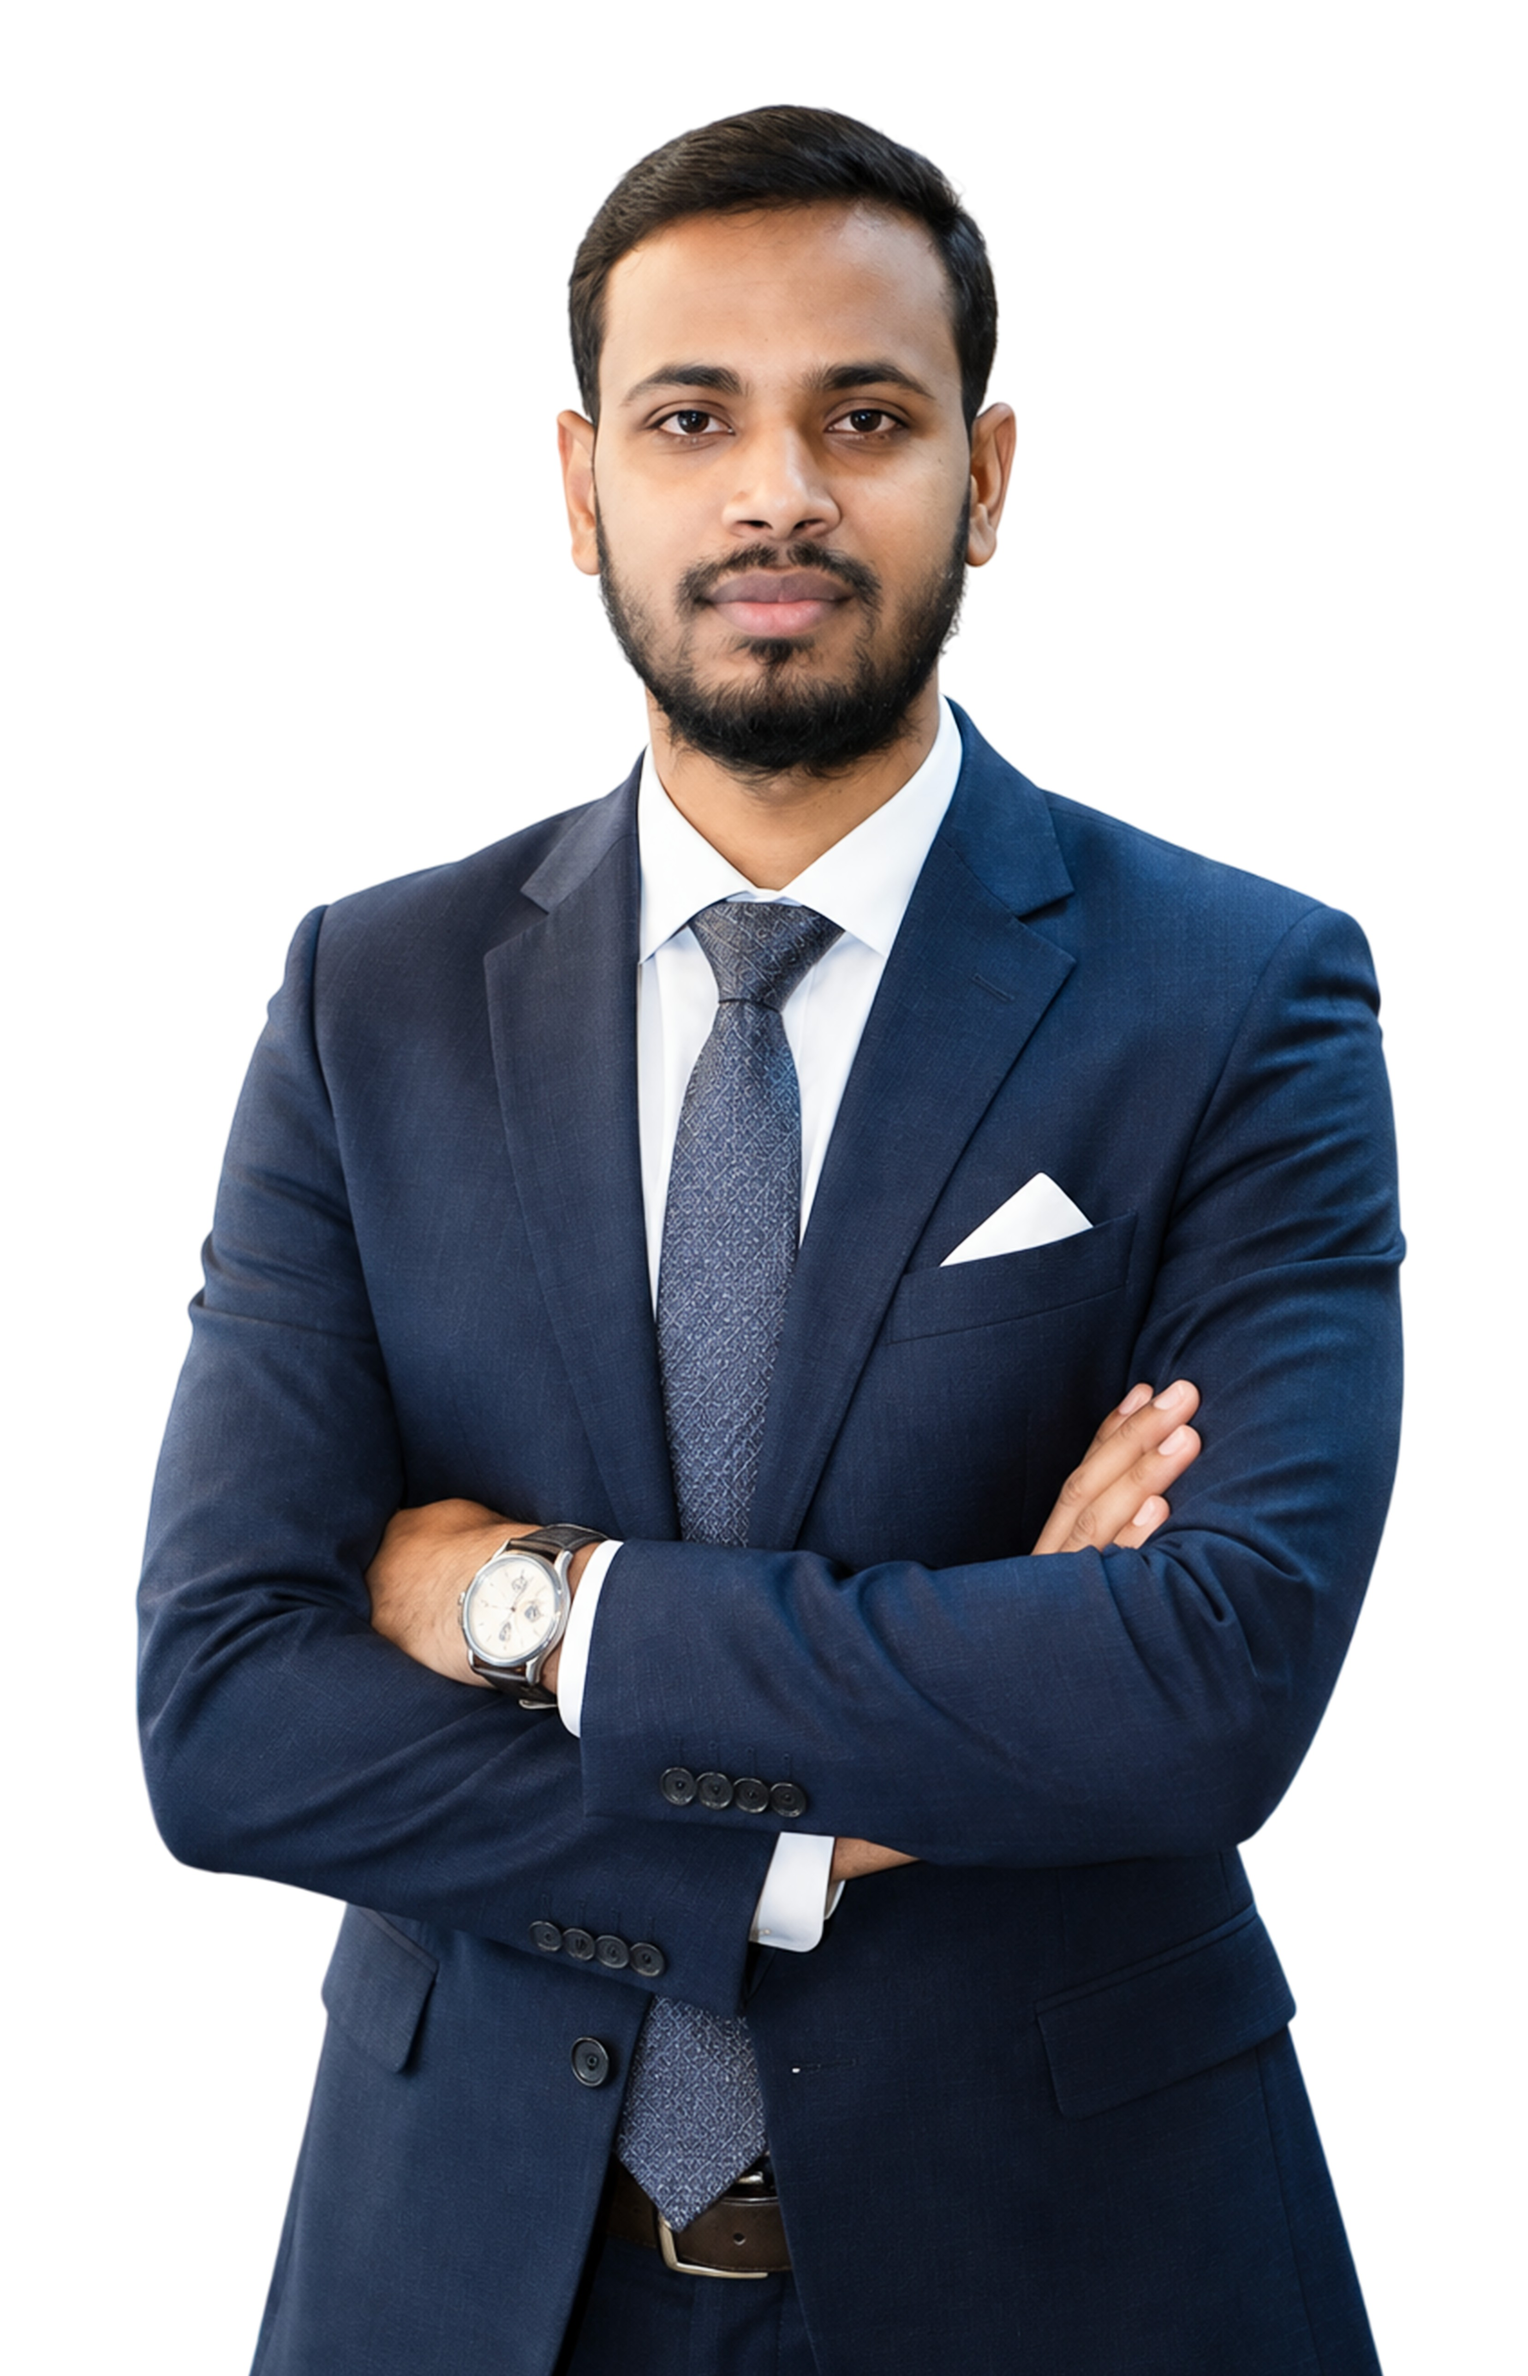
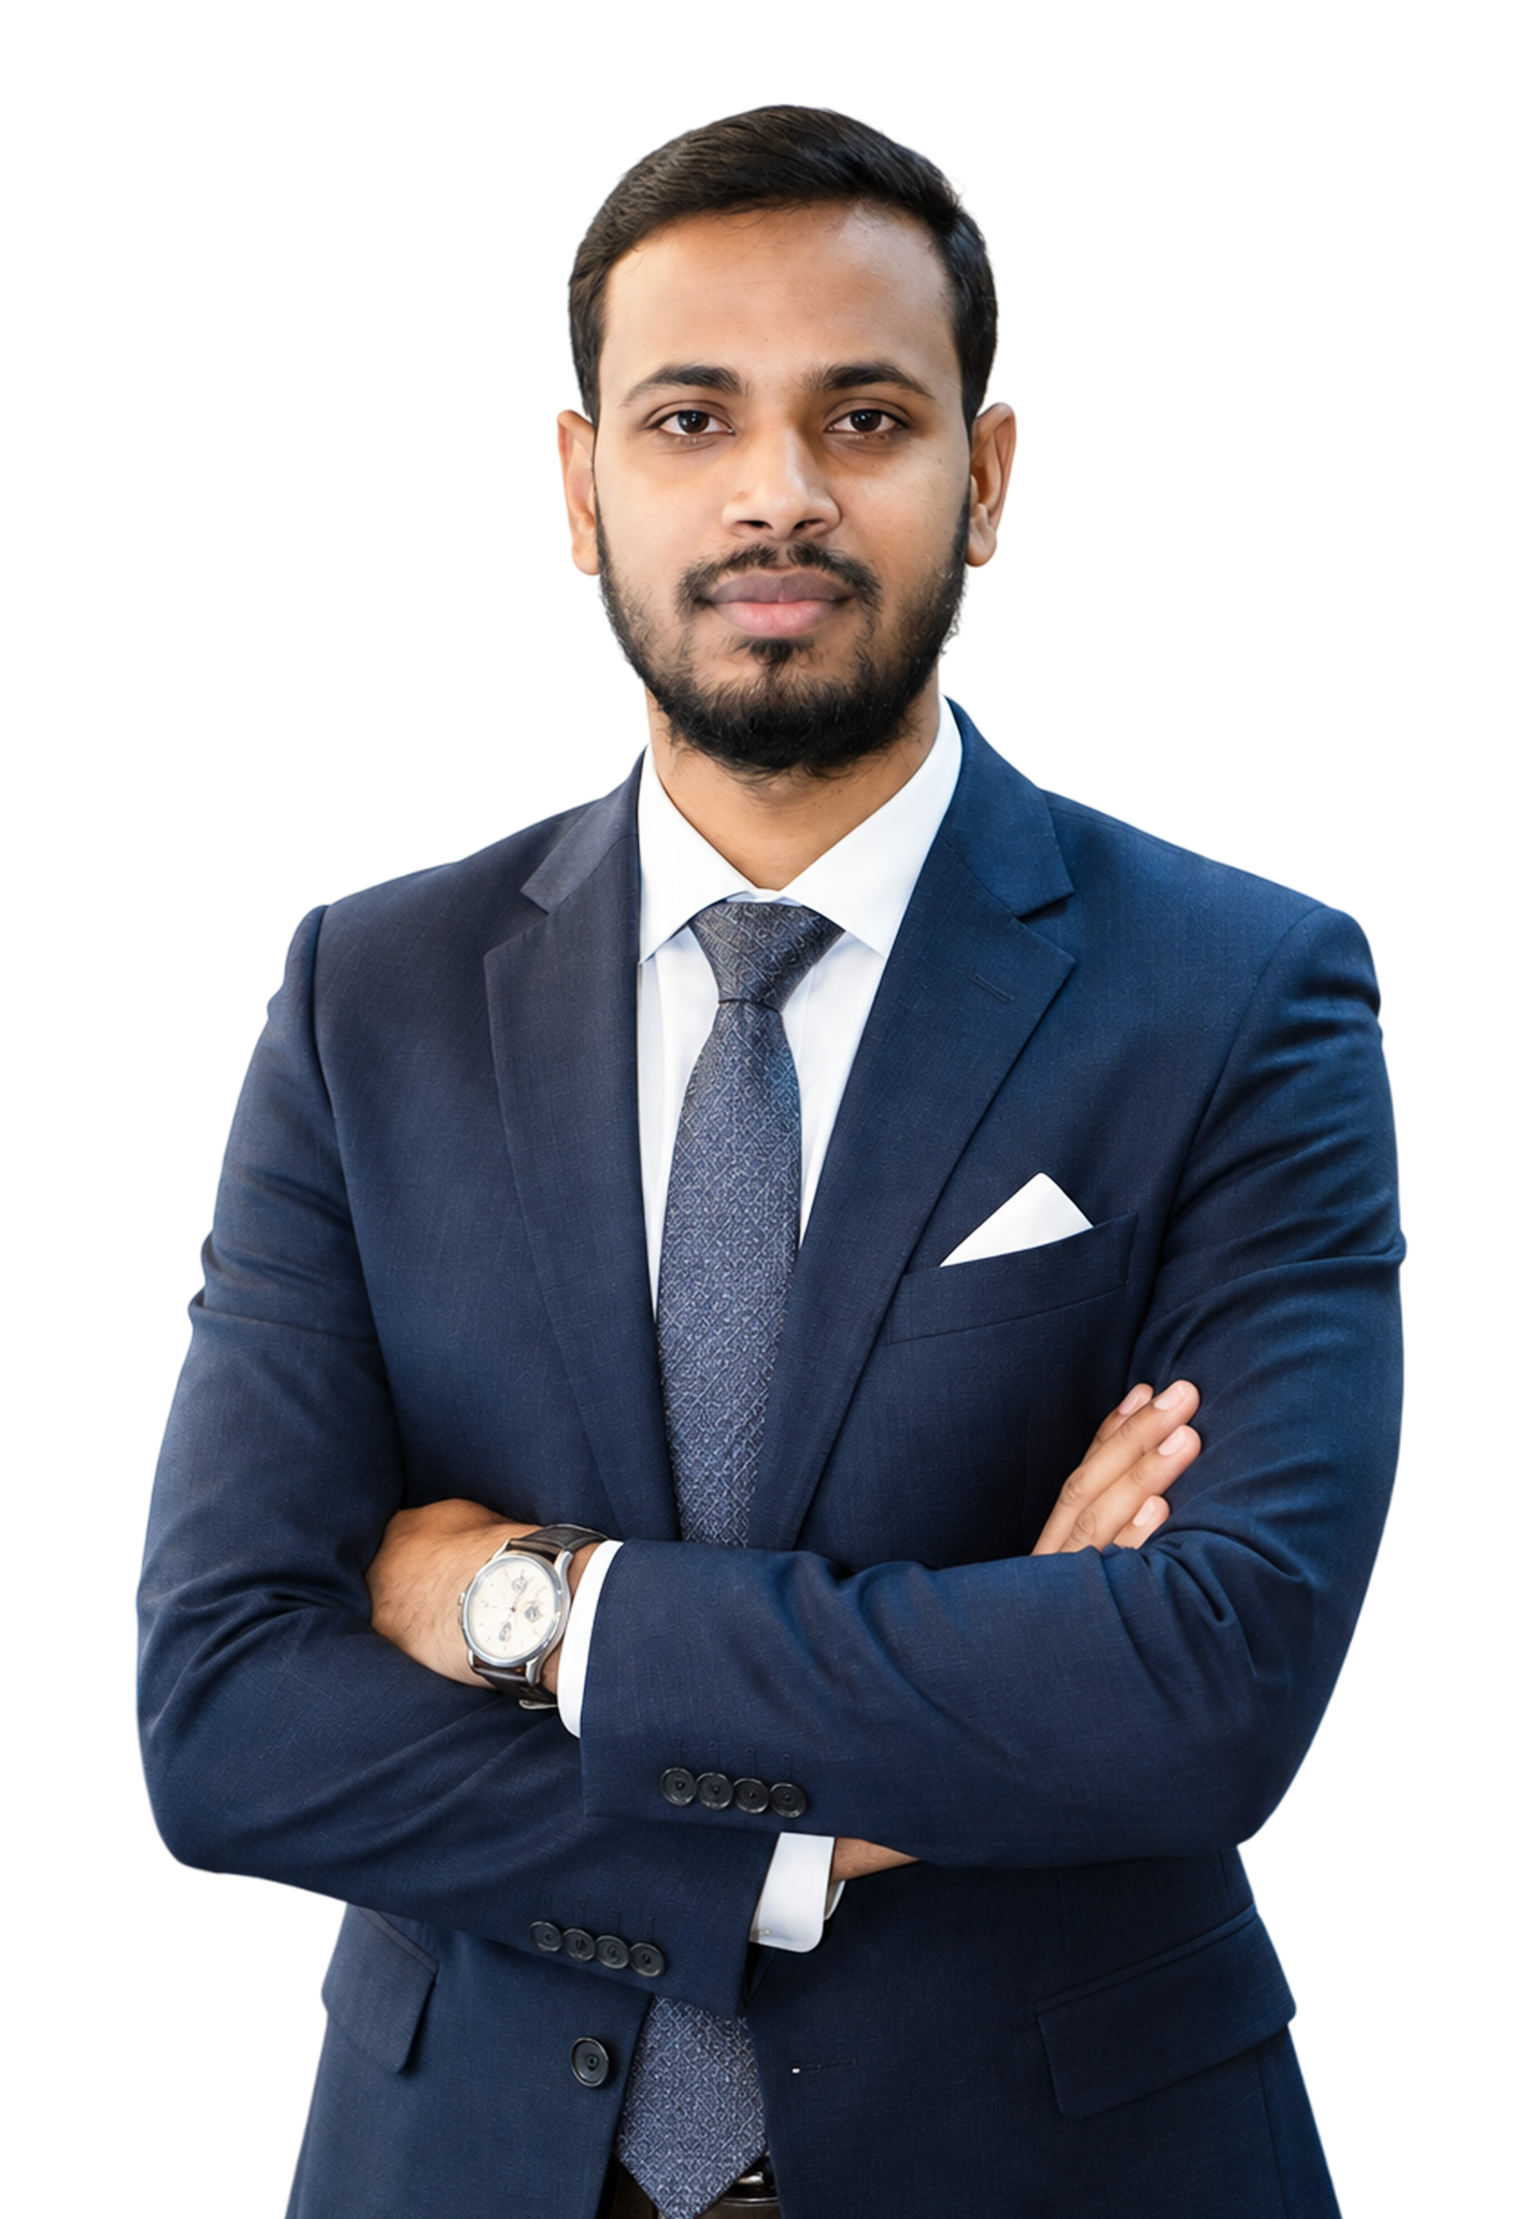
all done

Changed region(s): [[0.0622, 0.0312, 0.933, 1.0], [0.2488, 0.9046, 0.2799, 0.9357]]

diff --git a/src/Pages/Home/Hero.jsx b/src/Pages/Home/Hero.jsx
@@ -32,14 +32,72 @@ function Hero() {
       <div className="max-w-9xl mx-auto relative z-10 flex flex-col px-5">
         
         {/* HUGE BACKGROUND TEXT */}
-        <div className="absolute top-[8%] md:top-[12%] left-1/2 -translate-x-1/2 w-full text-center z-0 pointer-events-none">
+        <div className="hidden lg:block absolute top-[8%] md:top-[12%] left-1/2 -translate-x-1/2 w-full text-center z-0 pointer-events-none">
           <h1 className="text-[15vw] xl:text-[230px] font-black text-cc-black/5 leading-[0.85] tracking-tighter uppercase whitespace-nowrap font-serif">
             Nazifur 
           </h1>
         </div>
 
-        {/* MAIN CONTENT ROW */}
-        <div className="relative w-full flex flex-col lg:flex-row justify-between items-center mt-12 md:mt-24 xl:mt-10 z-30 mb-16 px-4 md:px-12 lg:px-20 xl:px-2">
+        {/* MOBILE LAYOUT (Phone Only) */}
+        <div className="lg:hidden relative w-full flex flex-col items-center mt-12 z-30 mb-16 px-4">
+          
+          <div className="inline-flex items-center space-x-2 text-cc-black font-medium text-sm mb-10 bg-white/80 backdrop-blur-md px-5 py-2.5 rounded-full border border-cc-green/20 shadow-sm w-fit mx-auto">
+            <span className="w-2.5 h-2.5 bg-cc-green rounded-full animate-pulse shadow-[0_0_8px_rgba(34,197,94,0.6)]"></span>
+            <span>Open for freelance works.</span>
+          </div>
+
+          <div className="w-full flex justify-center items-center z-20 mb-8">
+             <div className="w-[300px] h-[300px] sm:w-[400px] sm:h-[400px]">
+               <div className="w-full h-full rounded-full p-[8px] bg-gradient-to-r from-cc-yellow to-cc-green-light shimmer-btn drop-shadow-[0_20px_50px_rgba(0,0,0,0.15)] relative overflow-hidden group transition-all duration-300">
+                 <img 
+                   src="/Choco-Code-Profile-Picture.png" 
+                   alt="GaziAlauddin" 
+                   className="w-full h-full object-contain object-bottom rounded-full relative z-10 border-4 border-cc-yellow-100 "
+                 />
+               </div>
+             </div>
+          </div>
+
+          <div className="w-full flex flex-col justify-center items-center text-center z-30 mb-12">
+            <div className="text-[10vw] sm:text-[8vw] font-extrabold text-cc-black uppercase tracking-tighter leading-[1.1] mb-2 whitespace-nowrap">
+              Professional
+            </div>
+            <div className="text-[10vw] sm:text-[8vw] font-extrabold uppercase tracking-tighter leading-[1.1] w-full flex justify-center">
+              <span className="text-gradient-choco inline-block text-center min-w-[200px] whitespace-nowrap py-2">
+                {displayText}<span className="animate-blink text-cc-yellow font-mono font-light">|</span>
+              </span>
+            </div>
+          </div>
+
+          <div className="flex flex-wrap gap-3 justify-center w-full mb-12">
+            {[{v:'187+',l:'Reviews'},{v:'4.9 ★',l:'Ratings'},{v:'Top Rated',l:'Seller'}].map((s,i) => (
+              <div key={i} className="bg-white/60 backdrop-blur-md rounded-2xl px-3 py-3 shadow-lg shadow-cc-green/5 border border-cc-green/10 text-center flex flex-col justify-center transition-transform hover:-translate-y-1 flex-1 min-w-[80px]">
+                <p className="font-extrabold text-xl text-cc-black font-serif">{s.v}</p>
+                <p className="text-[9px] font-bold text-cc-gray uppercase tracking-wider mt-1">{s.l}</p>
+              </div>
+            ))}
+          </div>
+
+          <div className="text-center w-full px-2">
+            <p className='text-cc-gray text-base sm:text-lg font-semibold mb-4'>Hi! I'm Nazifur Rahman, Founder of Choco Code.</p>
+            <p className="text-cc-gray text-sm sm:text-base font-medium leading-relaxed mb-8">
+              I'm a Professional Developer working in the global marketplace, empowering your ideas with custom AI solutions, cutting-edge apps, and stunning websites.
+            </p>
+
+            <div className="flex justify-center mb-4 mt-6">
+              <a href="https://www.fiverr.com/choco_code">
+              <button className="bg-cc-black text-white text-sm font-bold py-4 px-8 rounded-full transition-all duration-300 flex items-center group shadow-xl">
+                Schedule Call
+                <span className="ml-2 group-hover:translate-x-1 transition-transform">→</span>
+              </button>
+              </a>
+            </div>
+          </div>
+
+        </div>
+
+        {/* DESKTOP CONTENT ROW */}
+        <div className="relative w-full hidden lg:flex flex-row justify-between items-center mt-24 xl:mt-10 z-30 mb-16 px-12 lg:px-20 xl:px-2">
           
           {/* Left Side: Info & Stats */}
           <div className="w-full lg:w-1/3 flex flex-col justify-center text-center lg:text-left mb-16 lg:mb-0 relative z-30 mx-auto lg:mx-0 pr-0 lg:pr-4 pl-10">

diff --git a/src/Shared/Header.jsx b/src/Shared/Header.jsx
@@ -3,12 +3,36 @@ import React, { useState, useEffect } from 'react';
 function Header() {
   const [scrolled, setScrolled] = useState(false);
   const [mobileOpen, setMobileOpen] = useState(false);
+  const [activeSection, setActiveSection] = useState('home');
 
   useEffect(() => {
     const handleScroll = () => setScrolled(window.scrollY > 20);
     window.addEventListener('scroll', handleScroll);
     return () => window.removeEventListener('scroll', handleScroll);
   }, []);
+
+  useEffect(() => {
+    const sections = ['home', 'services', 'portfolio', 'teams', 'reviews'];
+    const observer = new IntersectionObserver(
+      (entries) => {
+        entries.forEach((entry) => {
+          if (entry.isIntersecting) {
+            setActiveSection(entry.target.id);
+          }
+        });
+      },
+      { rootMargin: '-40% 0px -40% 0px' }
+    );
+
+    sections.forEach((id) => {
+      const el = document.getElementById(id);
+      if (el) observer.observe(el);
+    });
+
+    return () => observer.disconnect();
+  }, []);
+
+  const navItems = ['Home', 'Services', 'Portfolio', 'Teams', 'Reviews'];
 
   return (
     <header className={`w-full fixed top-0 left-0 right-0 z-50 transition-all duration-500 ${
@@ -26,17 +50,20 @@ function Header() {
 
           {/* Navigation Links */}
           <nav className="hidden md:flex items-center space-x-8">
-            {['Home', 'Services', 'Portfolio', 'Teams', 'Reviews'].map((item, i) => (
-              <a 
-                key={item}
-                href={`#${item.toLowerCase()}`} 
-                className={`relative text-sm font-medium transition-colors duration-300 ${
-                  i === 0 ? 'text-cc-green' : 'text-cc-black/60 hover:text-cc-green'
-                } after:content-[''] after:absolute after:-bottom-1 after:left-0 after:w-0 after:h-[2px] after:bg-gradient-to-r after:from-cc-green after:to-cc-yellow after:transition-all after:duration-300 hover:after:w-full`}
-              >
-                {item}
-              </a>
-            ))}
+            {navItems.map((item) => {
+              const isActive = activeSection === item.toLowerCase();
+              return (
+                <a 
+                  key={item}
+                  href={`#${item.toLowerCase()}`} 
+                  className={`relative text-sm font-medium transition-colors duration-300 ${
+                    isActive ? 'text-cc-green' : 'text-cc-black/60 hover:text-cc-green'
+                  } after:content-[''] after:absolute after:-bottom-1 after:left-0 after:h-[2px] after:bg-gradient-to-r after:from-cc-green after:to-cc-yellow after:transition-all after:duration-300 hover:after:w-full ${isActive ? 'after:w-full' : 'after:w-0'}`}
+                >
+                  {item}
+                </a>
+              );
+            })}
           </nav>
 
           {/* CTA Button */}
@@ -72,16 +99,21 @@ function Header() {
           mobileOpen ? 'max-h-96 opacity-100 mt-4' : 'max-h-0 opacity-0'
         }`}>
           <div className="glass-light rounded-xl p-6 space-y-4 shadow-xl">
-            {['Home', 'Services', 'Portfolio', 'Teams', 'Reviews'].map((item) => (
-              <a 
-                key={item}
-                href={`#${item.toLowerCase()}`} 
-                className="block text-cc-black/70 hover:text-cc-green text-sm font-medium transition-colors py-2 border-b border-cc-green/10"
-                onClick={() => setMobileOpen(false)}
-              >
-                {item}
-              </a>
-            ))}
+            {navItems.map((item) => {
+              const isActive = activeSection === item.toLowerCase();
+              return (
+                <a 
+                  key={item}
+                  href={`#${item.toLowerCase()}`} 
+                  className={`block text-sm font-medium transition-all duration-300 py-2 border-b border-cc-green/10 ${
+                    isActive ? 'text-cc-green pl-2 border-l-[3px] border-l-cc-green' : 'text-cc-black/70 hover:text-cc-green hover:pl-1'
+                  }`}
+                  onClick={() => setMobileOpen(false)}
+                >
+                  {item}
+                </a>
+              );
+            })}
             <a 
               href="#" 
               className="shimmer-btn block text-center bg-gradient-to-r from-cc-green to-cc-green-light text-white font-semibold py-3 px-6 rounded-lg text-sm mt-4"

diff --git a/src/Pages/Home/Ourteam.jsx b/src/Pages/Home/Ourteam.jsx
@@ -55,8 +55,32 @@ function Ourteam() {
           </p>
         </div>
 
-        <div className="mt-10">
+        <div className="mt-10 hidden lg:block">
           <SocialCards cards={teamMembers} />
+        </div>
+
+        {/* MOBILE LAYOUT (2 Column Grid) */}
+        <div className="mt-10 grid grid-cols-2 gap-4 lg:hidden">
+          {teamMembers.map((card, index) => {
+            const isNafizur = card.name === "Nafizur Rahman";
+            return (
+              <div 
+                key={index} 
+                className={`relative w-full overflow-hidden rounded-2xl shadow-xl border border-black/10 group ${isNafizur ? 'order-first col-span-2 aspect-[5/6] sm:aspect-[4/3]' : 'aspect-[3/4]'}`}
+              >
+                <img 
+                  src={card.imgUrl} 
+                  loading="lazy" 
+                  alt={card.name} 
+                  className={`absolute inset-0 w-full h-full object-cover z-10 transition-transform duration-500 group-hover:scale-110 ${isNafizur ? 'object-top' : ''}`} 
+                />
+                <div className={`absolute inset-x-0 bottom-0 bg-gradient-to-t from-black/90 via-black/40 to-transparent z-20 text-center flex flex-col justify-end ${isNafizur ? 'p-5 pt-16' : 'p-3 pt-10'}`}>
+                  <p className={`text-white font-bold font-serif leading-tight mb-0.5 ${isNafizur ? 'text-lg' : 'text-sm'}`}>{card.name}</p>
+                  <p className={`text-cc-yellow font-mono ${isNafizur ? 'text-xs' : 'text-[9px] sm:text-[10px]'}`}>{card.role}</p>
+                </div>
+              </div>
+            );
+          })}
         </div>
       </div>
     </section>

diff --git a/src/Pages/Home/OurWorks.jsx b/src/Pages/Home/OurWorks.jsx
@@ -143,7 +143,7 @@ function OurWorks() {
             onClick={() => setIsExpanded(!isExpanded)}
             className="border border-cc-green/30 text-cc-green font-medium text-sm px-6 py-2.5 rounded-lg hover:bg-cc-green hover:text-white transition-all duration-300 shadow-sm flex items-center justify-center mx-auto space-x-2 group"
           >
-            <span>{isExpanded ? 'Show Less' : 'View All Projects'}</span>
+            <span>{isExpanded ? 'Show Less' : 'View More Projects'}</span>
             <svg className={`w-4 h-4 transform transition-transform duration-300 ${isExpanded ? 'rotate-[-90deg]' : ''}`} fill="none" stroke="currentColor" viewBox="0 0 24 24">
               <path strokeLinecap="round" strokeLinejoin="round" strokeWidth="2" d="M14 5l7 7m0 0l-7 7m7-7H3"></path>
             </svg>

diff --git a/src/Shared/Footer.jsx b/src/Shared/Footer.jsx
@@ -16,7 +16,7 @@ function Footer() {
           <div className="lg:col-span-4">
             <div className="mb-6">
               <a href="#" className="flex items-center w-max">
-                <img src="/logo-whitetext.svg" alt="Choco Code Logo" className="h-10 md:h-20 -ml-4" />
+                <img src="/logo-whitetext.png" alt="Choco Code Logo" className="h-10 md:h-20 -ml-4" />
               </a>
             </div>
             <p className="text-white/60 text-[15px] mb-8 max-w-sm leading-relaxed">
